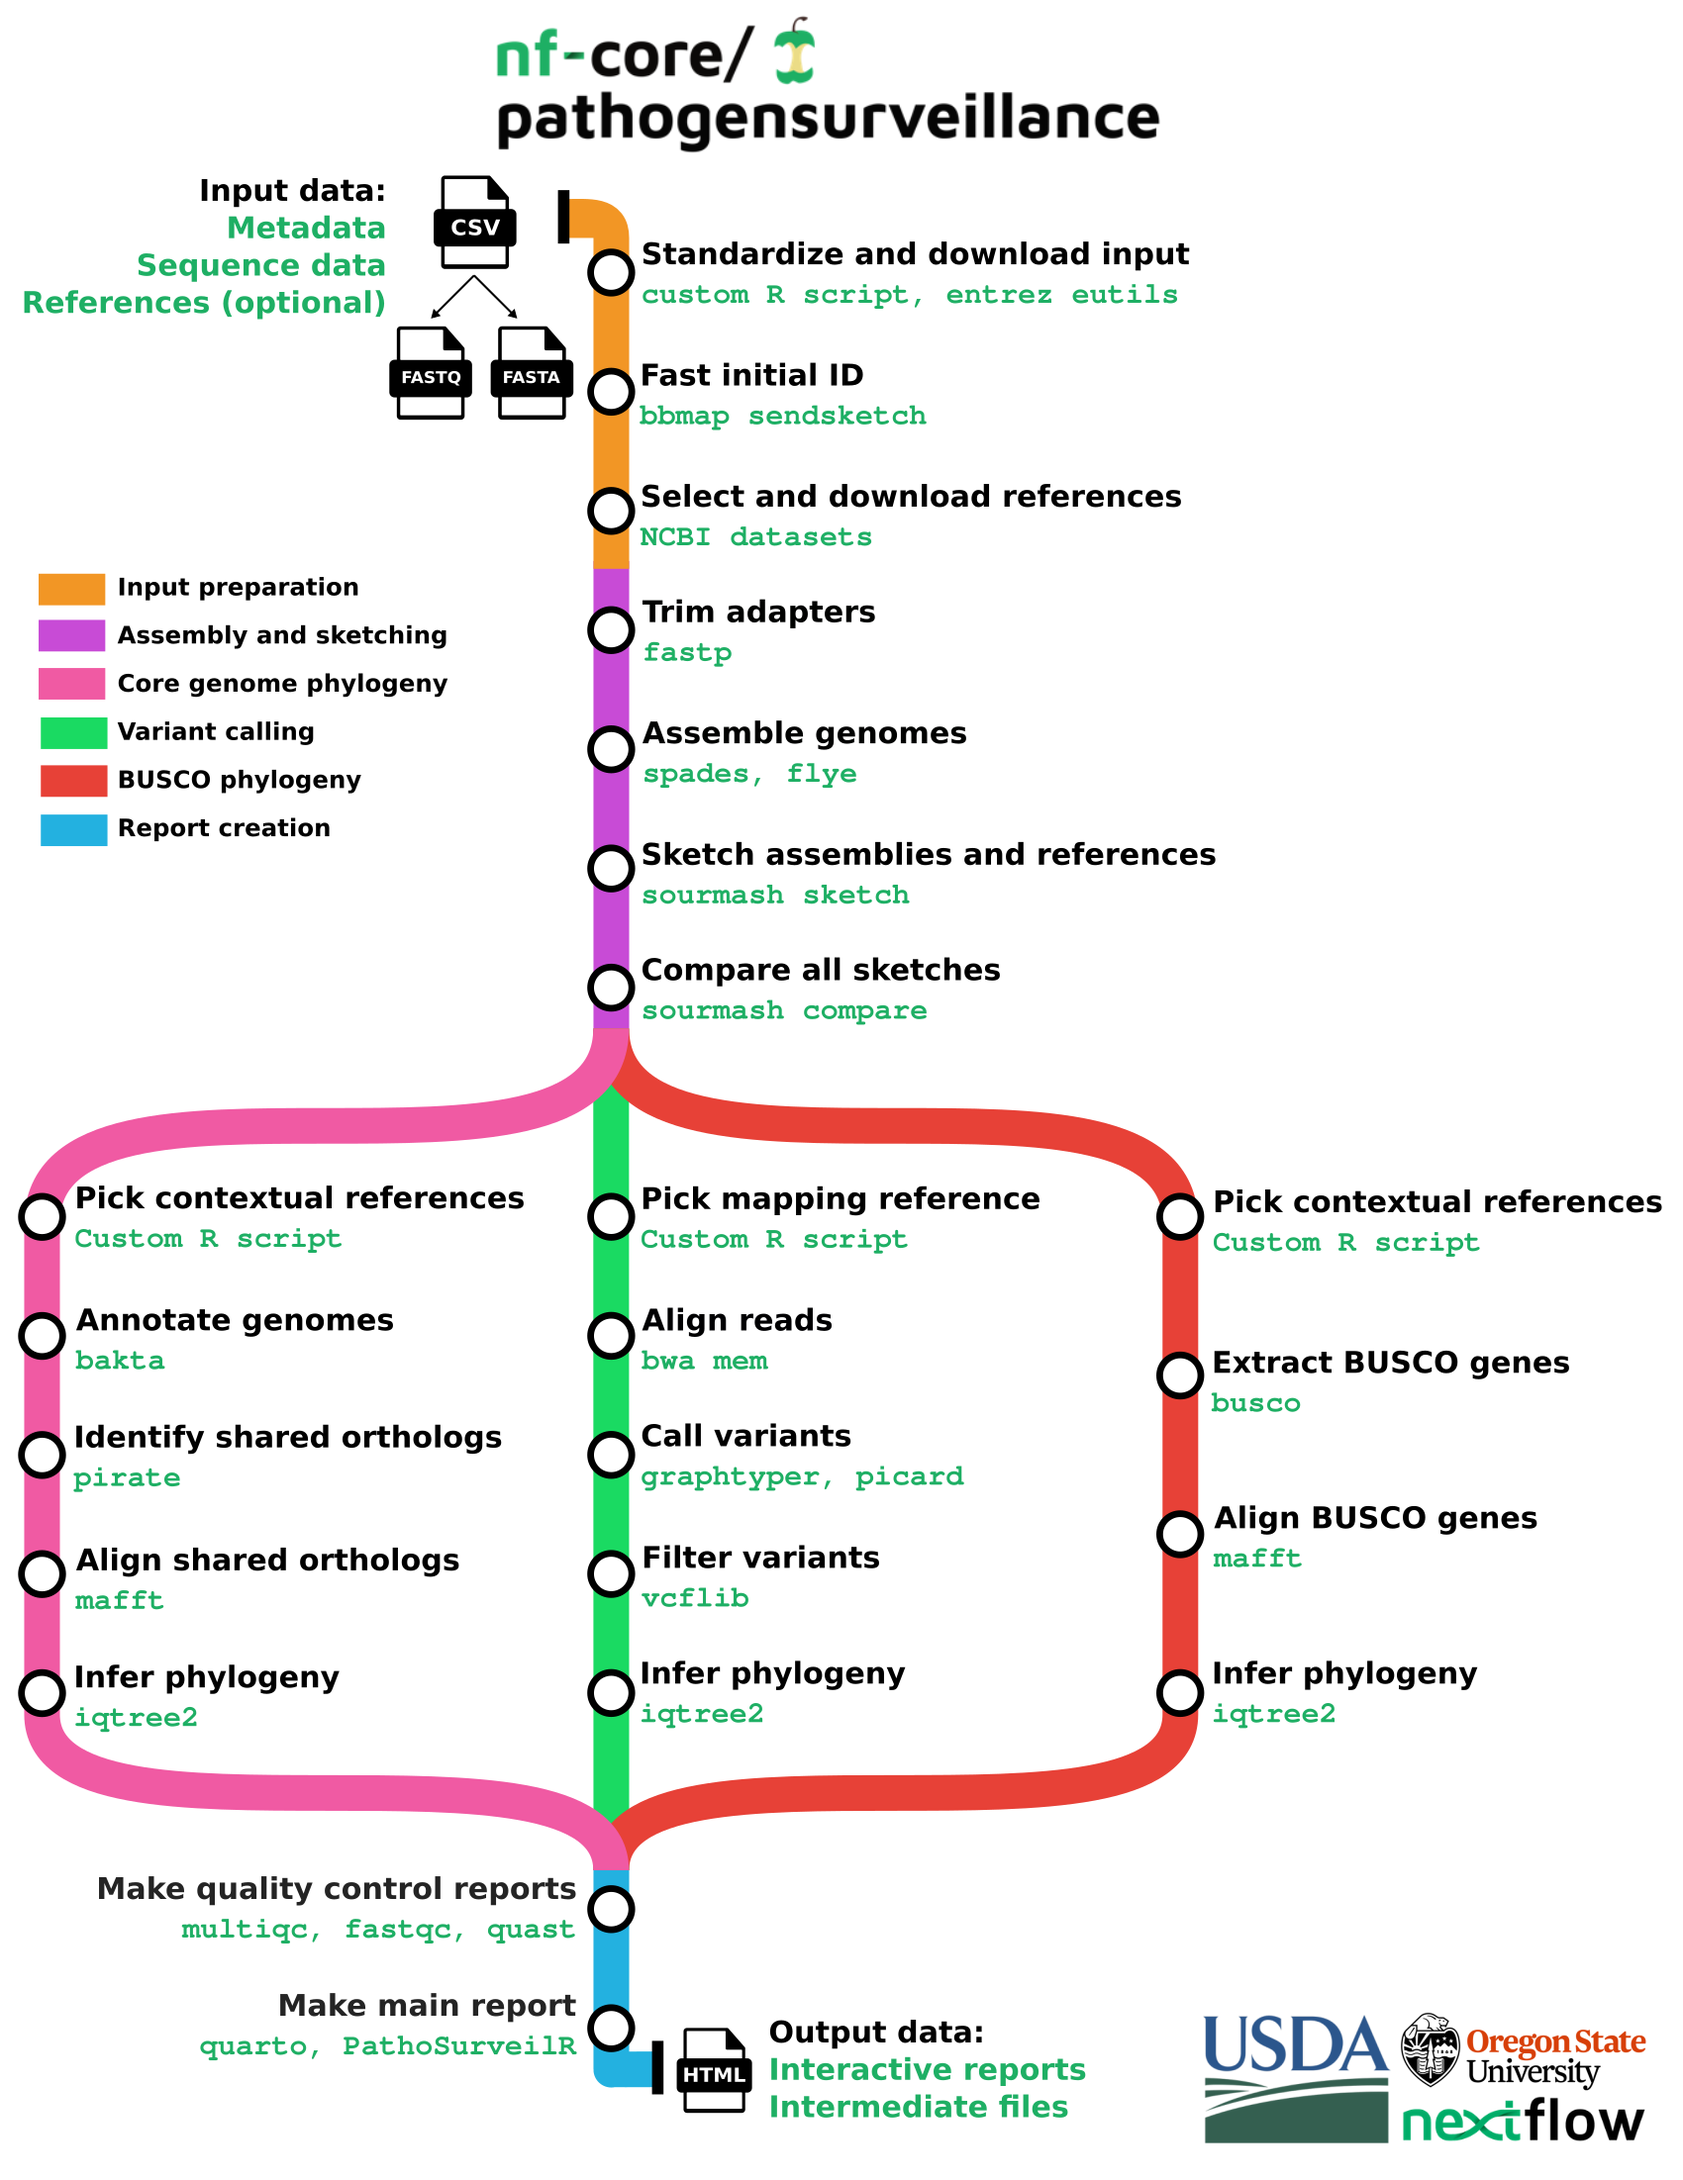
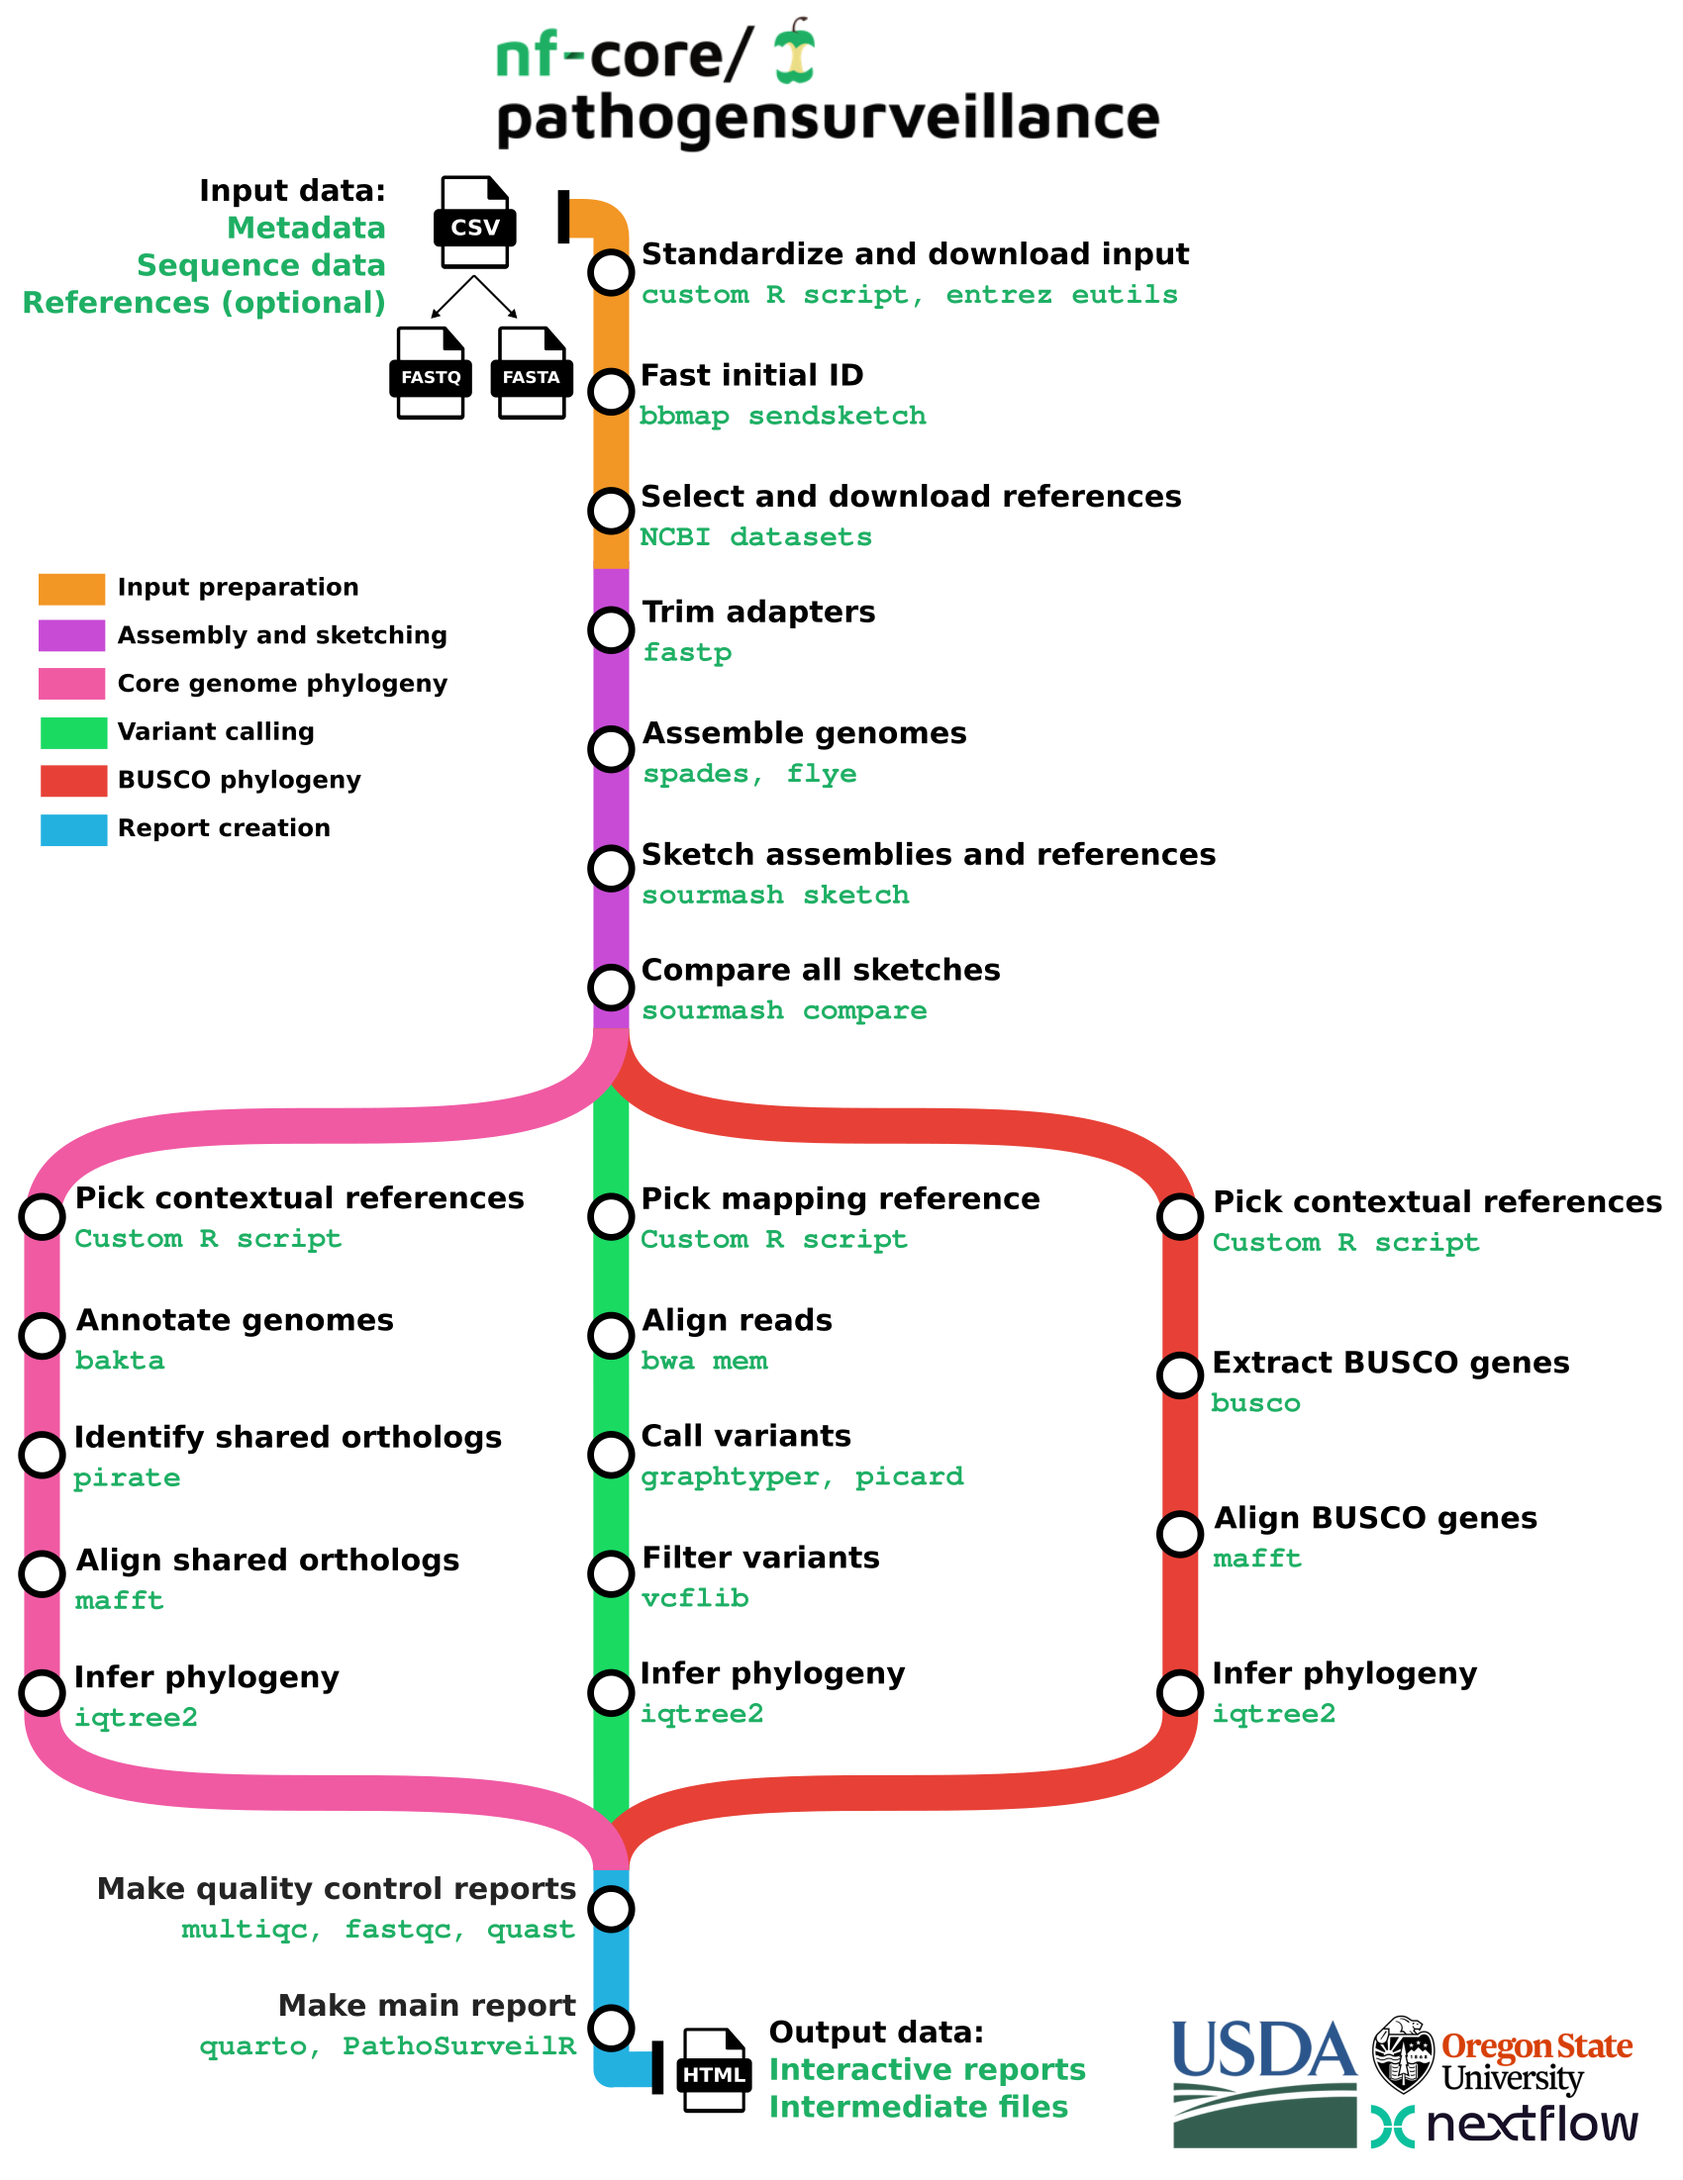
update pathosurveilr

Changed region(s): [[0.6859, 0.926, 0.9665, 0.9877]]

diff --git a/README.md b/README.md
@@ -75,6 +75,10 @@ Where:
 - `<REPLACE WITH TSV/CSV>` is the path to the input samplesheet
 - `<REPLACE WITH OUTPUT PATH>` is the path to where to save the output
 
+You can see the samplesheets used in these profiles here:
+
+https://github.com/nf-core/test-datasets/tree/pathogensurveillance
+
 ## Documentation
 
 For more details and further functionality, please refer to the [usage documentation](https://nf-co.re/pathogensurveillance/usage) and the [parameter documentation](https://nf-co.re/pathogensurveillance/parameters).
@@ -112,4 +116,7 @@ You can cite the `nf-core` publication as follows:
 >
 > _Nat Biotechnol._ 2020 Feb 13. doi: [10.1038/s41587-020-0439-x](https://dx.doi.org/10.1038/s41587-020-0439-x).
 
-![](docs/images/combined_logos.png)
+<picture>
+    <source media="(prefers-color-scheme: dark)" srcset="docs/images/combined_logos_dark.png">
+    <img alt="Logos of University of Oregon and USAD" src="docs/images/combined_logos_light.png">
+</picture>

diff --git a/docs/usage.md b/docs/usage.md
@@ -4,6 +4,13 @@
 
 ## Introduction
 
+This pipeline is designed to be as simple to run as possible while still being highly customizable.
+If you are running the pipeline for the first time, consider running one of the test profiles described in the Introduction page (i.e. the README on Github).
+You can see the samplesheets used in these profiles here:
+
+https://github.com/nf-core/test-datasets/tree/pathogensurveillance
+
+
 ## Samplesheet input
 
 The primary input to the pipeline is a TSV (tab-separated value) or CSV (comma-separated value) file, specified using the `--input` option.
@@ -166,7 +173,7 @@ Users can register for free API keys to increase these rate limits and the pipel
 Currently, only the NCBI API key is used by the pipeline.
 It can be set using [Nextflow secrets](https://www.nextflow.io/docs/latest/secrets.html):
 
-```
+```bash
 nextflow secrets set NCBI_API_KEY INSERT_YOUR_KEY_HERE
 ```
 
